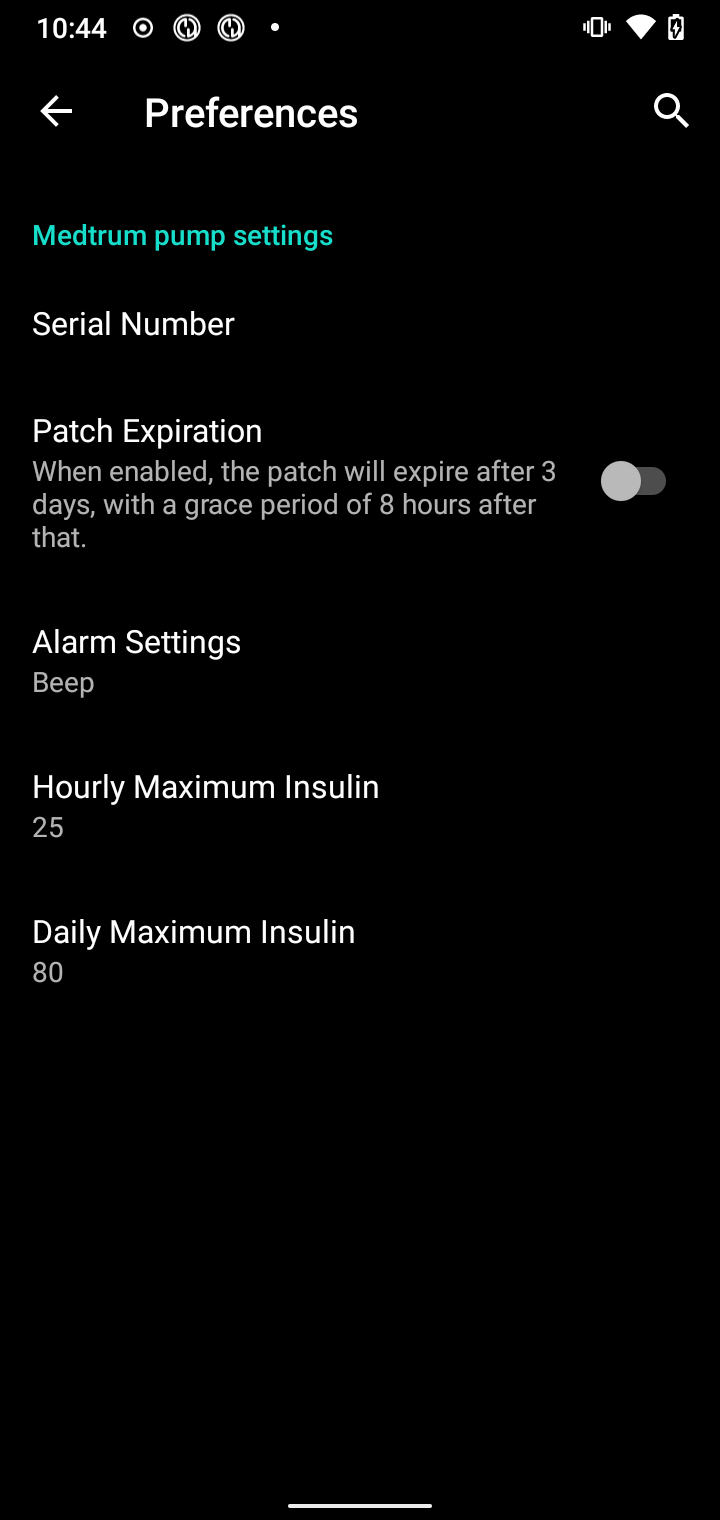
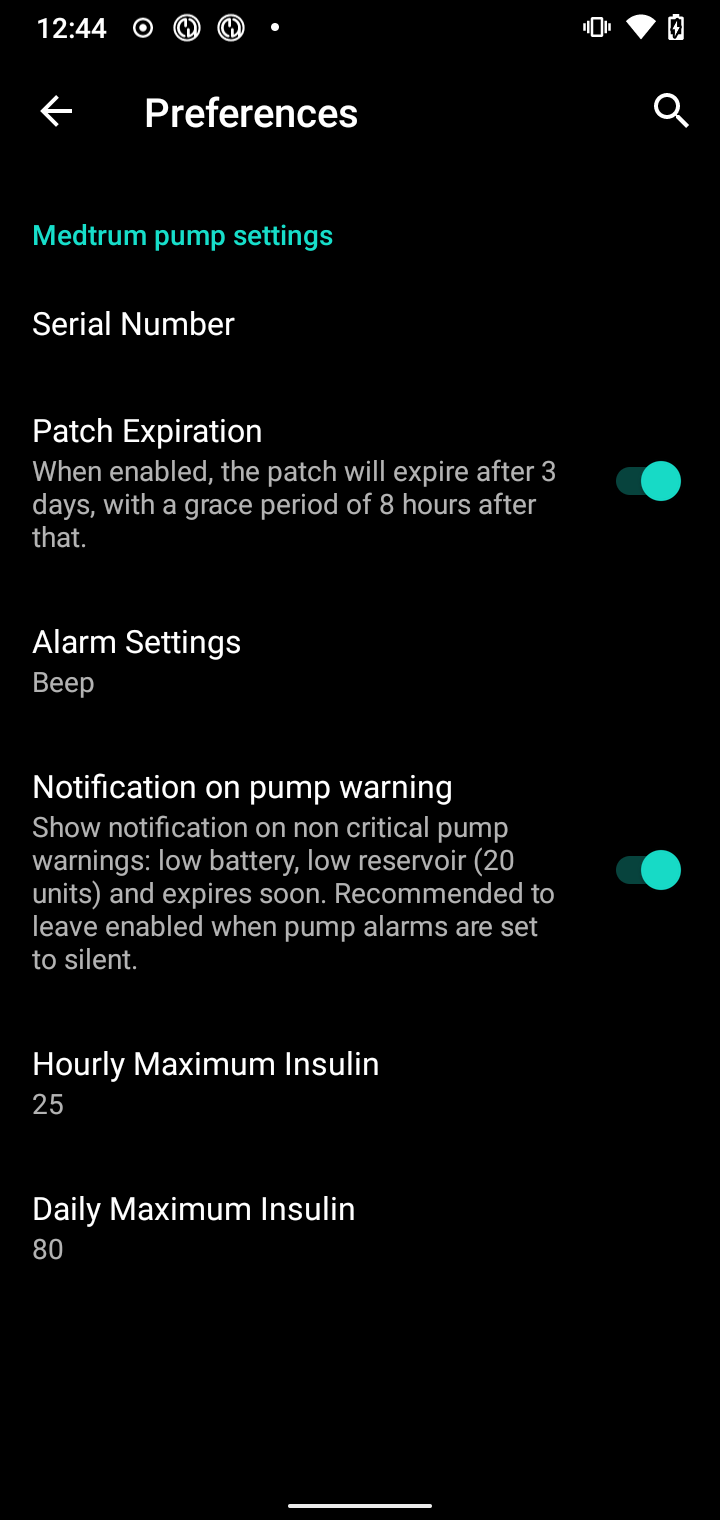
Medtrum: Add new settings and additional explanation

diff --git a/docs/EN/Configuration/MedtrumNano.md b/docs/EN/Configuration/MedtrumNano.md
@@ -11,10 +11,10 @@ This software is part of a DIY artificial pancreas solution and is not a product
 * Extended bolus is not supported by AAPS driver
 
 ## Hardware and Software Requirements
-* **Compatible Medtrum pump base and reservoir patches**
+* **Compatible Medtrum pumpbase and reservoir patches**
     - Currently supported:
-        - Medtrum TouchCare Nano with pump base refs: **MD0201** and **MD8201**.
-        - Medtrum TouchCare 300U with pump base ref: **MD8301**.
+        - Medtrum TouchCare Nano with pumpbase refs: **MD0201** and **MD8201**.
+        - Medtrum TouchCare 300U with pumpbase ref: **MD8301**.
         - If you have an unsupported model and are willing to donate hardware or assist with testing, please contact us via discord [here](https://discordapp.com/channels/629952586895851530/1076120802476441641).
 * **Version 3.2.0 or newer of AAPS built and installed** using the [Build APK](../Installing-AndroidAPS/Building-APK.md) instructions.
 * **Compatible Android phone** with a BLE Bluetooth connection 
@@ -43,7 +43,7 @@ While the Medtrum pump does support a zero basal rate, AAPS uses multiples of th
 
 ## Setup
 
-CAUTION: When activating a patch with AAPS you **MUST** disable all other devices that can talk to the Medtrum pump base. e.g. active PDM and Medtrum app. Make sure you have your pump base and pump base SN ready for activation of a new patch.
+CAUTION: When activating a patch with AAPS you **MUST** disable all other devices that can talk to the Medtrum pumpbase. e.g. active PDM and Medtrum app. Make sure you have your pumpbase and pumpbase SN ready for activation of a new patch.
 
 ### Step 1: Select Medtrum pump
 
@@ -65,7 +65,7 @@ Selecting the **checkbox** next to the **Settings Gear** will allow the Medtrum 
 
 <img src="../images/medtrum/ConfigBuilder.png" width="300">
 
-### Step 2: Change settings
+### Step 2: Change Medtrum settings
 
 Enter the Medtrum settings by tapping the **Settings Gear** of the Medtrum module in the Config Builder .
 
@@ -73,17 +73,23 @@ Enter the Medtrum settings by tapping the **Settings Gear** of the Medtrum modul
 
 #### Serial Number:
 
-Enter the serial number of your pump base here as noted on the pump base. Make sure the serial number is correct and there are no spaces added (You can either use capital or lowercase). 
+Enter the serial number of your pumpbase here as noted on the pumpbase. Make sure the serial number is correct and there are no spaces added (You can either use capital or lowercase). 
 
 NOTE: This setting can only be changed when there is no patch active.
 
 #### Patch Expiration
 
+***Default: Enabled.***
+
 This setting changes the behavior of the patch. When enabled the patch will expire after 3 days and give an audible warning if you have sound enabled. After 3 days and 8 hours the patch will stop working.
 
 If this setting is disabled, the patch will not warn you and will continue running until the patch battery or reservoir runs out.
 
+
+
 #### Alarm settings
+
+***Default: Beep.***
 
 This setting changes the way that the pump will alert you when there is a warning or error.
 
@@ -92,22 +98,78 @@ This setting changes the way that the pump will alert you when there is a warnin
 
 Note: In silent mode AAPS will still sound the alarm depending on your phone's volume settings. If you do not respond to the alarm, the patch will eventually beep.
 
+#### Notification on pump warning
+
+***Default: Enabled.***
+
+This settings changes the way AAPS will show notification on non ciritical pump warnings.
+When enabled a Notification will be shown on the phone when a pump warning occurs, including:
+    - Low battery
+    - Low reservoir (20 Units)
+    - Patch expiration warning
+
+In either case these warnings are also shown on the Medtrum overview screen under [Active alarms](#active-alarms).
+
 #### Hourly Maximum Insulin
 
-This setting changes the maximum amount of insulin that can be delivered in one hour. The default is 25U. If this limit is exceeded the patch will suspend and give an alarm. The alarm can be reset by pressing the reset button on in the overview menu see [Reset alarms](#reset-alarms).
+***Default: 25U.***
+
+This setting changes the maximum amount of insulin that can be delivered in one hour. If this limit is exceeded the patch will suspend and give an alarm. The alarm can be reset by pressing the reset button on in the overview menu see [Reset alarms](#reset-alarms).
 
 Set this to a sensible value for your insulin requirements. 
 
 #### Daily Maximum Insulin
 
-This setting changes the maximum amount of insulin that can be delivered in one day. The default is 80U. If this limit is exceeded the patch will suspend and give an alarm. The alarm can be reset by pressing the reset button on in the overview menu see [Reset alarms](#reset-alarms).
+***Default: 80U.***
+
+This setting changes the maximum amount of insulin that can be delivered in one day. If this limit is exceeded the patch will suspend and give an alarm. The alarm can be reset by pressing the reset button on in the overview menu see [Reset alarms](#reset-alarms).
 
 Set this to a sensible value for your insulin requirements.
+
+### Step 2b: AAPS Alerts settings
+
+Go to preferences
+
+#### Pump:
+
+##### BT Watchdog
+
+Go to preferences and select **Pump**:
+
+<img src="../images/medtrum/BTWatchdogSetting.png" width="300">
+
+##### BT Watchdog
+
+This setting will try to work around any BLE issues. It will try to reconnect to the pump when the connection is lost. It will also try to reconnect to the pump when the pump is unreachable for a certain amount of time.
+
+Enable this setting if you experience frequent connection issues with your pump.
+
+#### Local Alerts:
+
+Go to preferences and select **Local Alerts**:
+
+<img src="../images/medtrum/LocalAlertsSettings.png" width="300">
+
+##### Alert if pump is unreachable
+
+***Default: Enabled.***
+
+This setting is forced to enabled when the Medtrum driver is enabled. It will alert you when the pump is unreachable. This can happen when the pump is out of range or when the pump is not responding due to a defective patch or pumpbase, for example when water leaks between the pumpbase and the patch. 
+
+For safety reasons this setting cannot be disabled.
+
+##### Pump unreachable threshold [min]
+
+***Default: 30 min.***
+
+This setting changes the time after which AAPS will alert you when the pump is unreachable. This can happen when the pump is out of range or when the pump is not responding due to a defective patch or pumpbase, for example when water leaks between the pumpbase and the patch.
+
+This setting can be changed when using Medtrum pump but it is recommended to set it at 30 minutes for safety reasons.
 
 ### Step 3: Activate patch
 
 **Before you continue:**
-- Have your Medtrum Nano pump base and a reservoir patch ready.
+- Have your Medtrum Nano pumpbase and a reservoir patch ready.
 - Make sure that AAPS is properly set up and a [profile is activated](../Usage/Profiles.md).
 - Other devices that can talk to the Medtrum pump are disabled (PDM and Medtrum app)
 
@@ -117,7 +179,7 @@ Navigate to the [Medtrum TAB](#overview) in the AAPS interface and press the **C
 
 If a patch is already active, you will be prompted to deactivate this patch first. see [Deactivate Patch](#deactivate-patch).
 
-Follow the prompts to fill and activate a new patch. Please note - it is important to only connect the pump base to the reservoir patch at the step when you are prompted to do so. **You must only put the pump on your body and insert the cannula when prompted to during the activation process (after priming is complete).**
+Follow the prompts to fill and activate a new patch. Please note - it is important to only connect the pumpbase to the reservoir patch at the step when you are prompted to do so. **You must only put the pump on your body and insert the cannula when prompted to during the activation process (after priming is complete).**
 
 ##### Start Activation
 
@@ -176,7 +238,7 @@ You will be asked to confirm that you wish to deactivate the current patch. **Pl
 
 <img src="../images/medtrum/activation/DeactivateProgress.png" width="300">
 
-If Android APS in unable to deactivate the patch (For instance because the pump base has already been removed from the reservoir patch), you may press **Discard** to forget the current patch session and make it possible to activate a new patch.
+If Android APS in unable to deactivate the patch (For instance because the pumpbase has already been removed from the reservoir patch), you may press **Discard** to forget the current patch session and make it possible to activate a new patch.
 
 <img src="../images/medtrum/activation/DeactivateComplete.png" width="300">
 
@@ -202,7 +264,7 @@ The overview contains the current status of the Medtrum patch. It also contains 
 
 ##### BLE Status:
 
-This shows the current status of the Bluetooth connection to the pump base.
+This shows the current status of the Bluetooth connection to the pumpbase.
 
 ##### Last connected:
 
@@ -283,7 +345,7 @@ If the activation process is interrupted for example by and empty phone battery 
 ### Preventing patch faults
 
 The patch can give a variety of errors. To prevent frequent errors:
-- Make sure the pump base is properly seated in the patch and no gaps are visible.
+- Make sure the pumpbase is properly seated in the patch and no gaps are visible.
 - When filling the patch do not apply excessive force to the plunger. Do not try to fill the patch beyond the maximum that applies to your model.
 
 ## Where to get help
